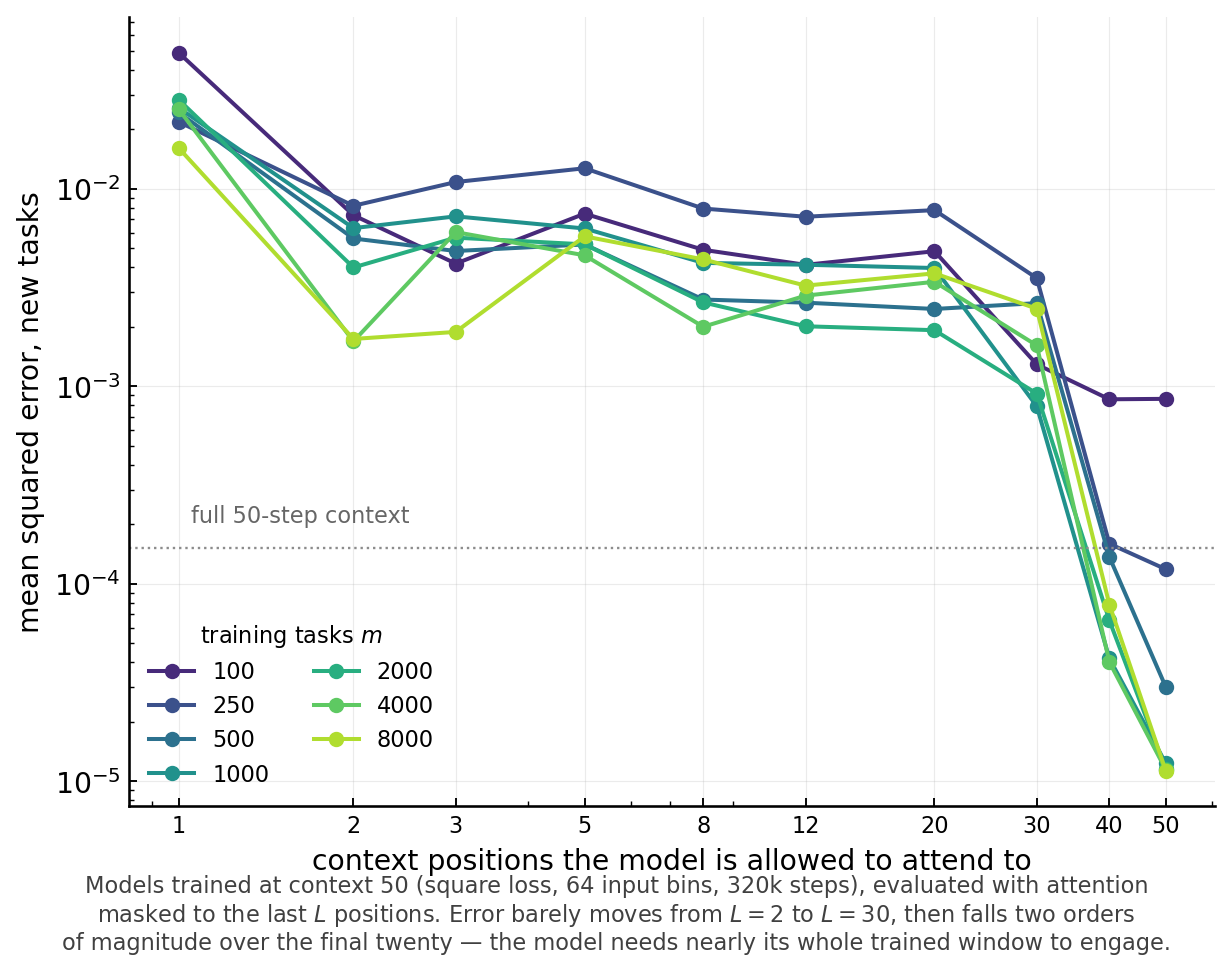
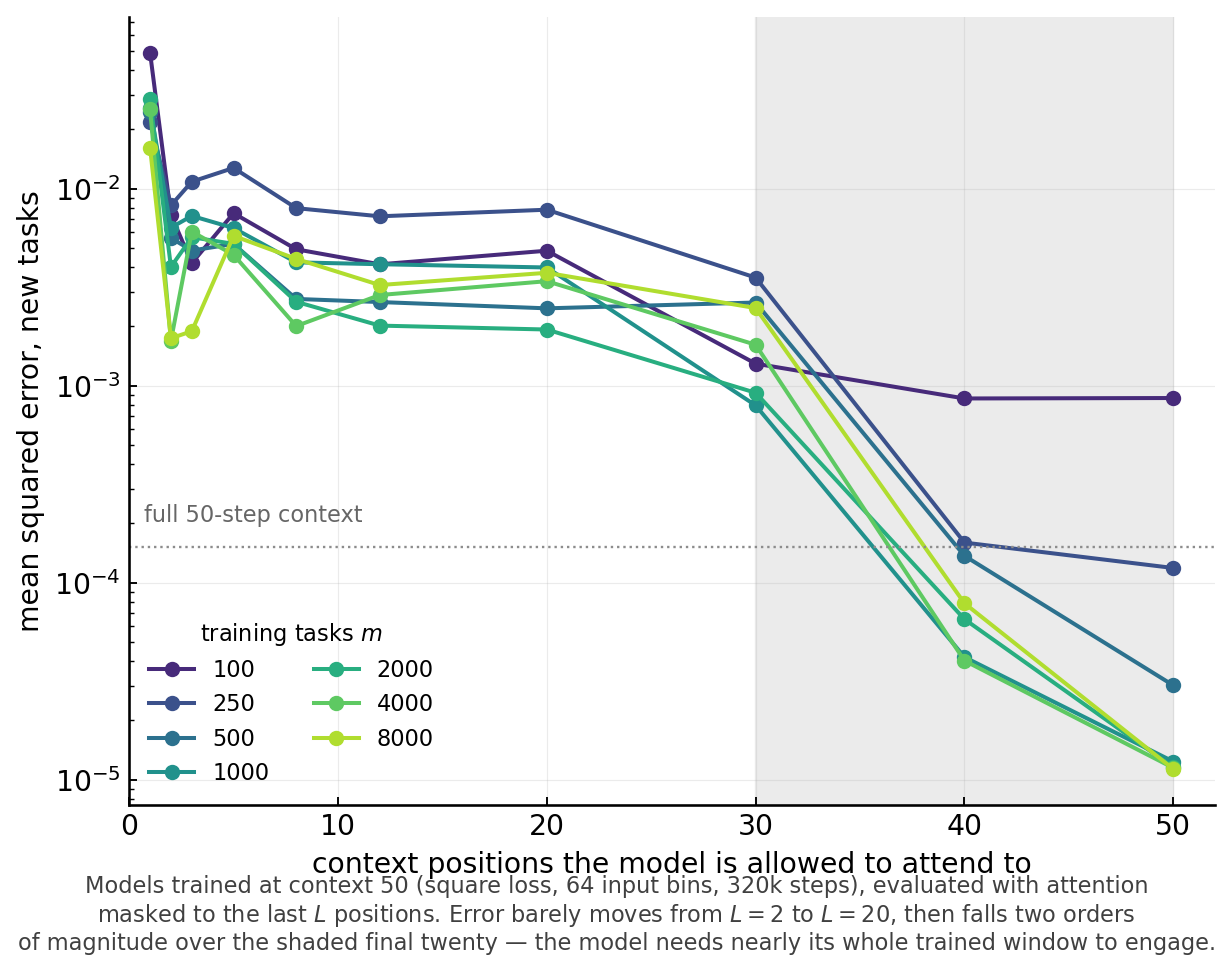
Linear context axis, and resolve the collapse properly
The log x axis was the wrong choice for this figure. It gave 59% of the width to
the featureless plateau from L=2 to L=20 and squeezed the collapse from L=30 to
L=50 -- two orders of magnitude of error, and the only structure worth seeing --
into the last 13%. Linear in L inverts that, and the shaded region marks the
collapse.

Making it legible also made it obvious that the collapse rests on three points,
so the eval is resubmitted with 3-step spacing above L=20: 1, 2, 3, 4, 6, 8, 10,
13, 16, 20, 23, 26, 29, 32, 35, 38, 41, 44, 47, 50. Twenty contexts against ten
is about 46 minutes at the 23 the first pass took, well inside the walltime.
Sampling below L=8 more densely would buy nothing, since the curve is noisy there
and no claim rests on it.

Whether the drop is a smooth ramp or a knee is currently unresolved, and the two
would mean different things: a ramp is evidence the model integrates evidence
across the window after all, a knee that some mechanism switches on at a
particular amount of context.

diff --git a/scripts/plot_context_eval.py b/scripts/plot_context_eval.py
@@ -43,24 +43,27 @@ for m, c in zip(MS, [cmap(v) for v in np.linspace(0.12, 0.88, len(MS))]):
 
 full = np.mean([np.nanmean(z[f"in64_mse_m{m}_seed0_L50_rms_new"]) ** 2 for m in MS])
 ax.axhline(full, color="0.55", lw=1, ls=":")
-ax.text(1.05, full * 1.35, "full 50-step context", fontsize=9.5, color="0.4")
+ax.text(0.7, full * 1.35, "full 50-step context", fontsize=9.5, color="0.4")
 
-ax.set_xscale("log"); ax.set_yscale("log")
-ax.set_xticks([1, 2, 3, 5, 8, 12, 20, 30, 40, 50])
-ax.set_xticklabels(["1", "2", "3", "5", "8", "12", "20", "30", "40", "50"],
-                   fontsize=9.5)
+# Linear in L, not log. The structure worth seeing is the collapse between
+# L=30 and L=50; on a log axis that is the last 13% of the width while the
+# featureless plateau from 2 to 20 takes 59% of it.
+ax.set_yscale("log")
+ax.set_xlim(0, 52)
+ax.set_xticks([0, 10, 20, 30, 40, 50])
 ax.set_xlabel("context positions the model is allowed to attend to")
 ax.set_ylabel("mean squared error, new tasks")
 ax.legend(frameon=False, fontsize=9.5, ncol=2, loc="lower left",
           title="training tasks $m$", title_fontsize=9.5)
+ax.axvspan(30, 50, color="0.92", zorder=0)
 ax.grid(alpha=0.25, lw=0.5)
 for s in ("top", "right"):
     ax.spines[s].set_visible(False)
 
 fig.text(0.5, -0.05,
          "Models trained at context 50 (square loss, 64 input bins, 320k steps), evaluated with attention\n"
-         "masked to the last $L$ positions. Error barely moves from $L=2$ to $L=30$, then falls two orders\n"
-         "of magnitude over the final twenty — the model needs nearly its whole trained window to engage.",
+         "masked to the last $L$ positions. Error barely moves from $L=2$ to $L=20$, then falls two orders\n"
+         "of magnitude over the shaded final twenty — the model needs nearly its whole trained window to engage.",
          ha="center", fontsize=9.5, color="0.25")
 fig.tight_layout()
 for e in ("png", "pdf"):
